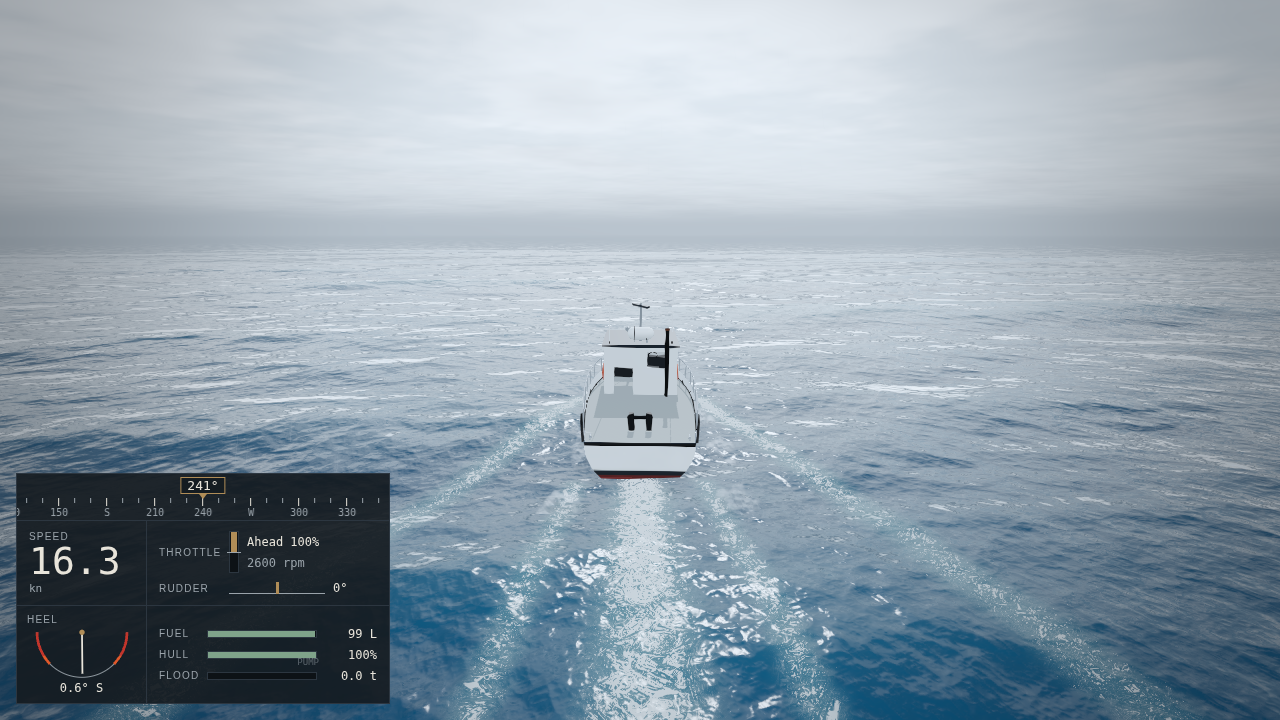
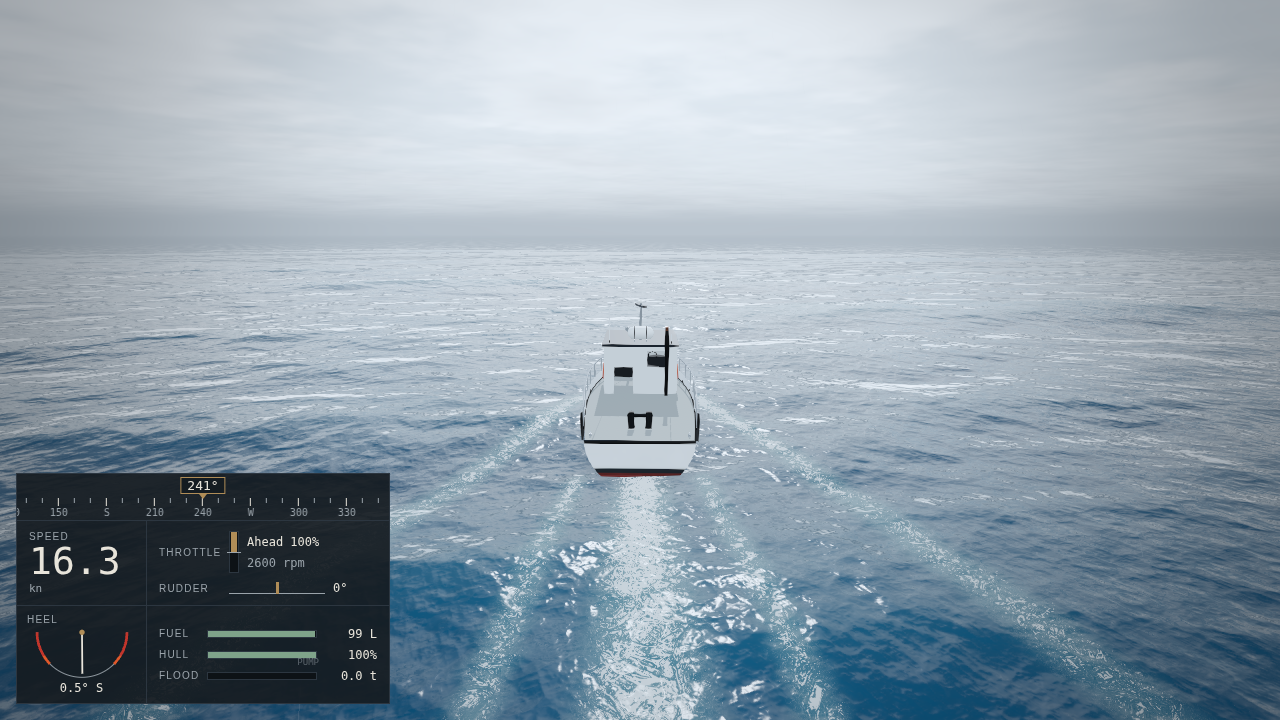
Mist drifts instead of flying sideways; subtler spindrift and bow mist
- Mist drag 2.2/s toward 0.3x the wind (was pulled to full wind speed).
- No motion stretch on mist sprites.
- Spindrift: from 24 kn, fewer, smaller, fainter wisps skimming the crests.
- Bow mist small and occasional; slam plumes unchanged.

Claude-Session: https://claude.ai/code/session_017Su6rcrj4izoRMC3peEWqU

diff --git a/src/ocean/Spray.js b/src/ocean/Spray.js
@@ -103,9 +103,9 @@ export class Spray {
   }
 
   // Soft mist puffs that billow and hang in the air.
-  mist(n, px, py, pz, vx, vy, vz, spread, size = 1.4, life = 2.4) {
+  mist(n, px, py, pz, vx, vy, vz, spread, size = 1.4, life = 2.4, alpha = 0.3) {
     for (let k = 0; k < n; k++) {
-      this.spawn(MIST, px, py, pz, vx, vy, vz, spread, size, life, 0.3, 1.9 + size * 0.2);
+      this.spawn(MIST, px, py, pz, vx, vy, vz, spread, size, life, alpha, 1.2 + size * 0.15);
     }
   }
 
@@ -127,11 +127,17 @@ export class Spray {
       }
       const isMist = this.kind[i] === MIST;
       // Mist is carried by the wind; droplets fall ballistically.
-      const k = isMist ? 1.6 : SPRAY.airDrag;
+      // Mist slows quickly and drifts downwind at a fraction of the wind
+      // speed (it is dragged along near the sea, not launched by gusts);
+      // droplets fly ballistically with light drag.
+      const k = isMist ? SPRAY.mistDrag : SPRAY.airDrag;
+      const carry = isMist ? SPRAY.mistWindCarry : 1;
       const drag = Math.exp(-dt * k);
-      this.vel[o] = wind.x + (this.vel[o] - wind.x) * drag;
-      this.vel[o + 1] = this.vel[o + 1] * drag - (isMist ? 1.2 : 9.81) * dt;
-      this.vel[o + 2] = wind.z + (this.vel[o + 2] - wind.z) * drag;
+      const wx = wind.x * carry;
+      const wz = wind.z * carry;
+      this.vel[o] = wx + (this.vel[o] - wx) * drag;
+      this.vel[o + 1] = this.vel[o + 1] * drag - (isMist ? 0.6 : 9.81) * dt;
+      this.vel[o + 2] = wz + (this.vel[o + 2] - wz) * drag;
       this.pos[o] += this.vel[o] * dt;
       this.pos[o + 1] += this.vel[o + 1] * dt;
       this.pos[o + 2] += this.vel[o + 2] * dt;

diff --git a/src/entities/BoatEffects.js b/src/entities/BoatEffects.js
@@ -156,12 +156,13 @@ export class BoatEffects {
             const oz = out.z - sim.state.pos.z;
             this.spray.droplets(1, p.x, p.y, p.z, v.x * 0.6 + ox, 0.8 + u * (0.08 + rng() * 0.14), v.z * 0.6 + oz, 1.2, 0.14, 0.9);
           }
-          if (rng() < 0.5 * n) {
-            this.local(side * B * 0.4, 0.2, L / 2 - 2.5, p);
-            this.local(side * (1 + u * 0.08), 0, 0, out);
+          if (rng() < 0.15 * n) {
+            // A little fine mist off the bow wave (slams make the big plumes).
+            this.local(side * B * 0.45, 0.1, L / 2 - 2.5, p);
+            this.local(side * 0.8, 0, 0, out);
             const ox = out.x - sim.state.pos.x;
             const oz = out.z - sim.state.pos.z;
-            this.spray.mist(1, p.x, p.y, p.z, v.x * 0.5 + ox, 1, v.z * 0.5 + oz, 1.2, 1.1, 2.2);
+            this.spray.mist(1, p.x, p.y, p.z, v.x * 0.3 + ox, 0.6, v.z * 0.3 + oz, 0.6, 0.7, 1.4, 0.18);
           }
         }
       }

diff --git a/src/config/render.js b/src/config/render.js
@@ -69,14 +69,17 @@ export const WAKE = {
 
 // Wind-torn spray off breaking crests around the camera (gale/storm haze).
 export const SPINDRIFT = {
-  minWindKn: 20,
-  ratePerKn: 3, // puffs per second per knot above minWindKn
-  radius: [10, 90], // metres from the camera
-  size: [4, 11],
-  life: 4.5,
+  minWindKn: 24,
+  ratePerKn: 1.2, // wisps per second per knot above minWindKn
+  radius: [14, 80], // metres from the camera
+  size: [1.5, 3.5],
+  life: 2.2,
+  alpha: 0.14,
 };
 
 export const SPRAY = {
+  mistDrag: 2.2, // 1/s: mist loses its launch speed quickly
+  mistWindCarry: 0.3, // fraction of wind speed mist drifts at
   maxParticles: 4600,
   bowRatePerKn: 26, // particles/s per knot of speed at the bow
   slamParticlesPerMs: 45, // burst size per m/s of slam speed

diff --git a/src/ocean/SprayShaders.js b/src/ocean/SprayShaders.js
@@ -34,13 +34,12 @@ void main() {
   // Droplets: thin motion-blurred streaks along the screen velocity.
   float stretch = 1.0 + clamp(len * 0.35, 0.0, 9.0);
   vec2 dropOffset = perp * (corner.x * size * 0.6) + dir * (corner.y * size * stretch);
-  // Mist: rotating billow, stretched a little along its motion.
+  // Mist: rotating billow (never stretched: fast puffs would streak).
   float c = cos(aMeta.z);
   float s = sin(aMeta.z);
   vec2 ax = vec2(c, s);
   vec2 ay = vec2(-s, c);
   vec2 mistOffset = (ax * corner.x + ay * corner.y) * size;
-  mistOffset += dir * dot(mistOffset, dir) * min(len * 0.06, 1.4);
   mv.xy += mix(dropOffset, mistOffset, isMist);
   vFrame = mix(vec4(perp, dir), vec4(ax, ay), isMist);
   float cell = aMeta.y;

diff --git a/src/ocean/Spindrift.js b/src/ocean/Spindrift.js
@@ -34,7 +34,8 @@ export class Spindrift {
       }
       this.acc -= 1;
       const size = c.size[0] + (c.size[1] - c.size[0]) * rng();
-      this.spray.mist(1, x, h + 0.4, z, wind.x * 0.8, 0.8, wind.z * 0.8, 2, size, c.life);
+      // Low wisps torn off the crest, skimming the surface downwind.
+      this.spray.mist(1, x, h + 0.15, z, wind.x * 0.3, 0.3, wind.z * 0.3, 0.8, size, c.life, c.alpha);
     }
     this.acc = Math.min(this.acc, 5);
   }

diff --git a/docs/PROGRESS.md b/docs/PROGRESS.md
@@ -50,6 +50,7 @@
 - **D48 Wake ribbons:** wake streams are ordered rings per trail; neighbours are drawn as tapered capsule segments with MAX blending (FoamRibbons), so no dots at any frame rate. Per-frame prop-wash and hull-contact stamps only at low speed (they beaded at speed).
 - **D49 Lit spray sprites:** atlas 1024x512 stores normals + coverage; mist is lit (wrap diffuse, sky from above, backlit thin edges), gets fine wisps from a tiling noise and dissolves with age; droplets are lenses with a sun glint. Bow spray leaves from points along the forward third of the hull.
 - **D50 Low preset (phones):** shadows on at 1024². Bloom was tried on phones and reverted: the in-app viewer lost its WebGL context (white screen) under the extra render targets.
+- **D53 Mist motion:** mist loses its launch speed fast (drag 2.2/s) and drifts at 0.3× the wind instead of being dragged to full wind speed (storm puffs were crossing the screen at 25 m/s); no motion stretch on mist; spindrift is sparse, low (0.15 m) and faint (alpha 0.14) from 24 kn; bow mist is small and occasional (slams keep the big plumes).
 - **D52 Phones, second pass:** shadows off again on Low (the version that ran well had none), no preserved drawing buffer on Low; context loss auto-restarts at most once per session, then shows a Restart button (reload loops can get WebGL blocked); start-up errors are shown on screen.
 - **D51 Phone resilience:** Low preset pixel ratio 0.75 → 0.6, foam map 256, 2000 spray particles; dynamic resolution on touch devices (drops 15% steps to 0.6× after 3 s under 26 fps, recovers above 50 fps); WebGL context loss shows a notice and reloads; ocean/spray outputs clamped so an overflow can never smear Inf across post passes.
 - **D47 Verify budget:** test-physics runs at nice 10; tow screenshot run-up 70 → 40 s. Verify is at ~172 s; the next milestone needs another saving (e.g. fewer page loads or shorter slam wait).
